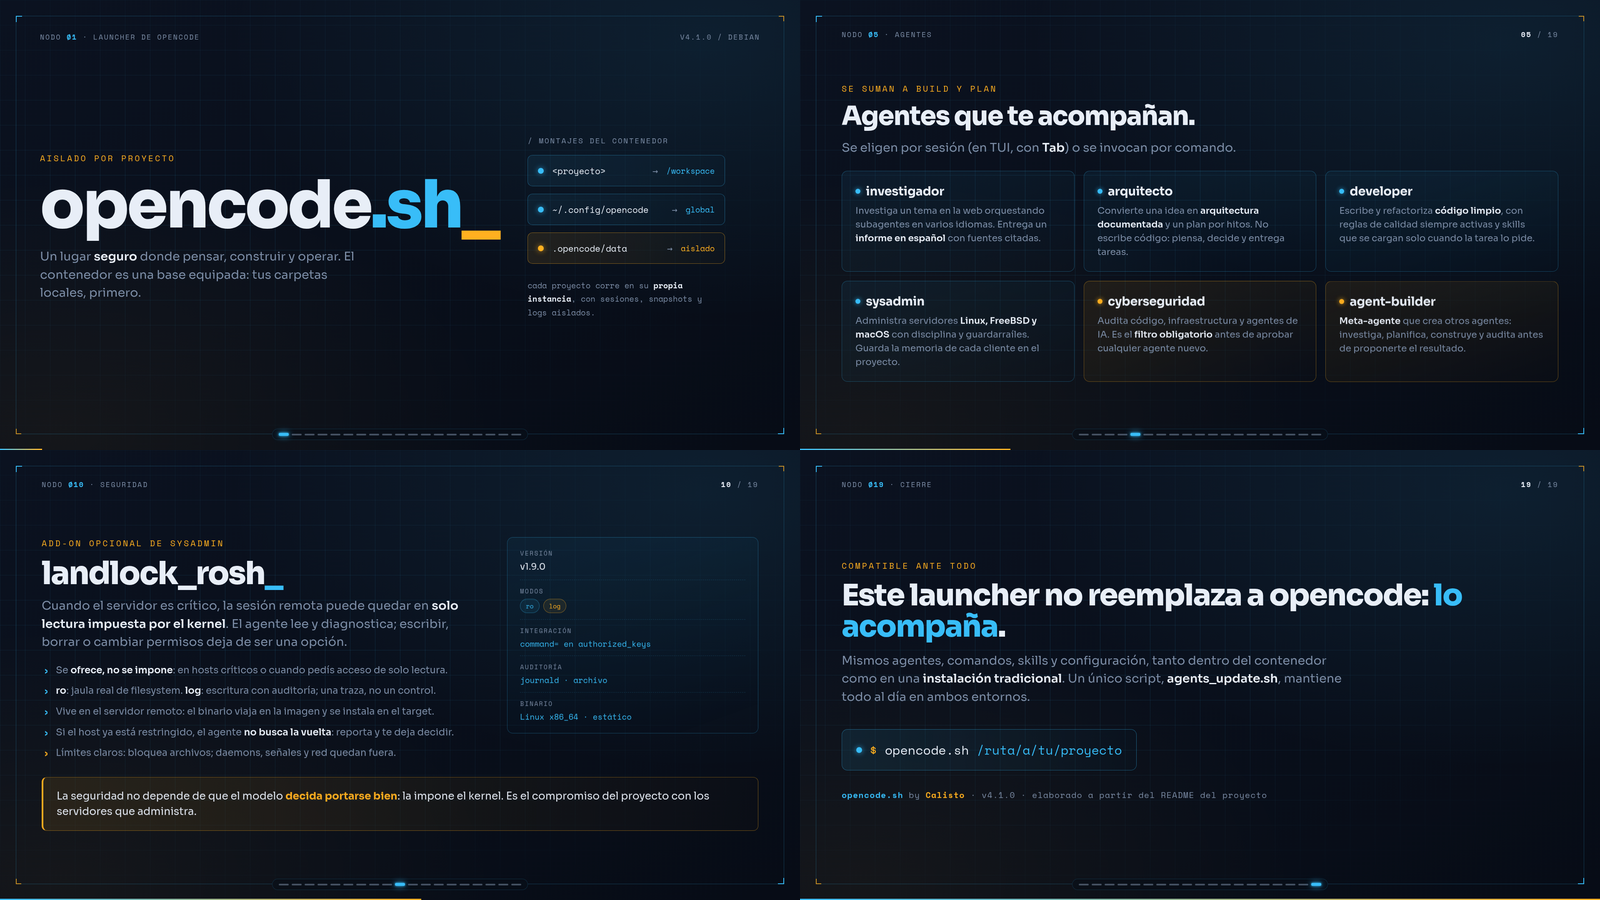
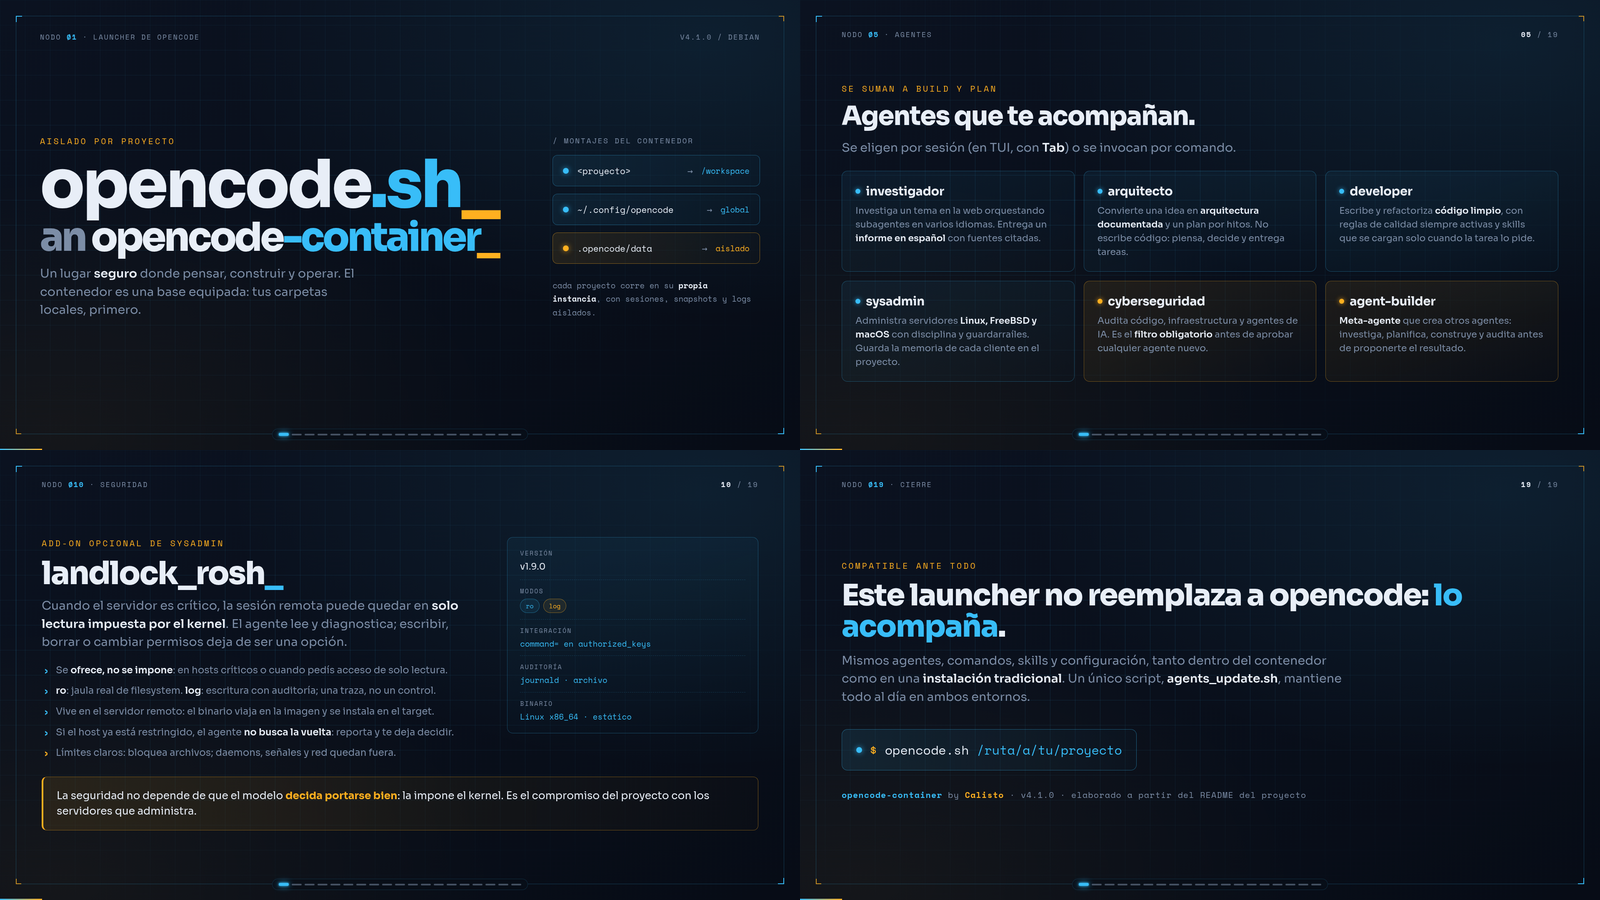
presentacion: portada en dos lineas (opencode.sh / an opencode-container) y una sola version readonly
- Portada: opencode.sh_ a 158 px y an opencode-container_ debajo, calzadas al mismo ancho (1100 px)
- Columna del nombre en max-content + 130 px de separacion con el panel de montajes
- Se retira opencode-container.html (el editor restauraba ediciones desde localStorage); queda solo la version readonly
- README y preview apuntan a la version readonly

diff --git a/opencode-container-readonly.html b/opencode-container-readonly.html
@@ -3,7 +3,7 @@
 <head>
 <meta charset="UTF-8">
 <meta name="viewport" content="width=device-width, initial-scale=1.0">
-<title>opencode.sh — Un lugar seguro donde construir</title>
+<title>opencode-container — Un lugar seguro donde construir</title>
 <link rel="preconnect" href="https://fonts.googleapis.com">
 <link rel="preconnect" href="https://fonts.gstatic.com" crossorigin>
 <link href="https://fonts.googleapis.com/css2?family=Sora:wght@400;500;600;700;800&family=Space+Mono:wght@400;700&display=swap" rel="stylesheet">
@@ -259,10 +259,10 @@
                 <span class="pg reveal" style="--d:.05s">v4.1.0 / DEBIAN</span>
             </div>
 
-            <div style="position: relative; z-index: 3; display: grid; grid-template-columns: 1.15fr 0.85fr; gap: 70px; height: calc(100% - 40px); align-items: center;">
+            <div style="position: relative; z-index: 3; display: grid; grid-template-columns: max-content 1fr; column-gap: 130px; height: calc(100% - 40px); align-items: center;">
                 <div>
                     <div class="kicker reveal" style="--d:.16s">Aislado por proyecto</div>
-                    <h1 class="agent-name reveal" style="--d:.16s; font-size: 158px;">opencode<span style="color: var(--cyan);">.sh</span><span style="color: var(--amber);">_</span></h1>
+                    <h1 class="agent-name reveal" style="--d:.16s; font-size: 158px; white-space: nowrap; line-height: .9;"><span style="display: block; width: max-content;">opencode<span style="color: var(--cyan);">.sh</span><span style="color: var(--amber);">_</span></span><span style="display: block; width: max-content; font-size: 95.1px; margin-top: 12px;"><span style="color: var(--muted);">an</span> <span style="color: var(--paper);">opencode</span><span style="color: var(--cyan);">-container</span><span style="color: var(--amber);">_</span></span></h1>
                     <p class="lead reveal" style="--d:.3s; max-width: 760px;">Un lugar <b>seguro</b> donde pensar, construir y operar. El contenedor es una base equipada: tus carpetas locales, primero.</p>
                 </div>
 
@@ -921,7 +921,7 @@ opencode.sh --rebuild <span class="cmt"># o --renew para actualizarlo</span>
                     </span>
                 </div>
 
-                <p class="lead reveal" style="--d:.52s; margin-top: 44px; font-family: var(--font-mono); font-size: 20px; letter-spacing: 0.06em;"><b style="color: var(--cyan);">opencode.sh</b> by <b style="color: var(--amber);">Calisto</b> · v4.1.0 · elaborado a partir del README del proyecto</p>
+                <p class="lead reveal" style="--d:.52s; margin-top: 44px; font-family: var(--font-mono); font-size: 20px; letter-spacing: 0.06em;"><b style="color: var(--cyan);">opencode-container</b> by <b style="color: var(--amber);">Calisto</b> · v4.1.0 · elaborado a partir del README del proyecto</p>
             </div>
         </section>
 

diff --git a/README.md b/README.md
@@ -15,7 +15,7 @@ proyecto, con las herramientas ya dispuestas y tus carpetas locales siempre a la
 
 ## Presentación
 
-<a href="opencode-container.html">
+<a href="opencode-container-readonly.html">
   <img src="opencode-container-preview.png" alt="Vista previa de la presentación: portada, agentes, seguridad por kernel y cierre" width="600">
 </a>
 
